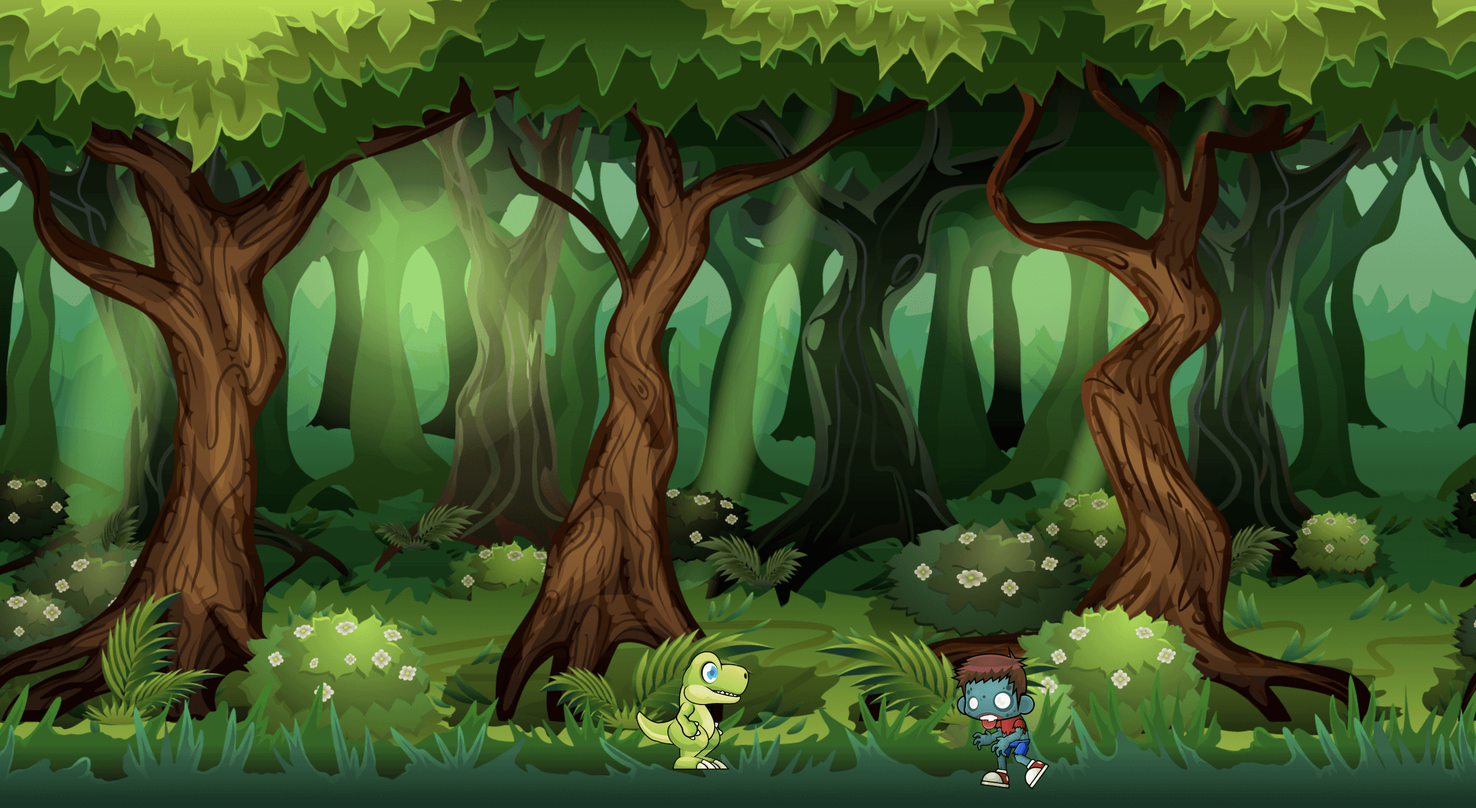
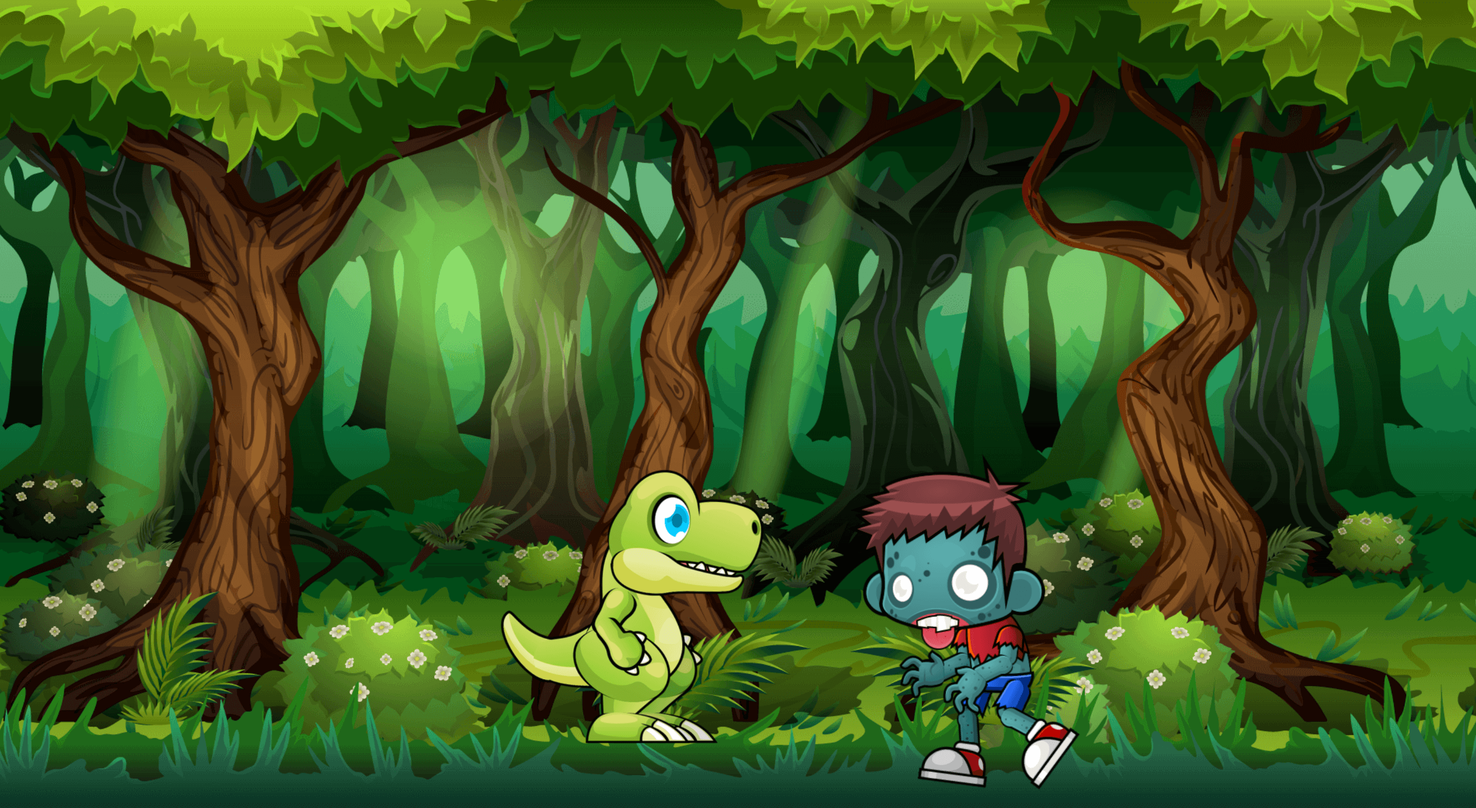
adjusting Dino's speed to the enviroment and code refactoring

diff --git a/sketch.js b/sketch.js
@@ -15,6 +15,7 @@ function preload() {
 		'../assets/dino/Walk7.png', '../assets/dino/Walk8.png',
 		'../assets/dino/Walk9.png', '../assets/dino/Walk10.png'
 	);
+	walkingDino.frameDelay = 5
 	runningDino = loadAnimation('../assets/dino/Run1.png', '../assets/dino/Run2.png',
 		'../assets/dino/Run3.png', '../assets/dino/Run4.png',
 		'../assets/dino/Run5.png', '../assets/dino/Run6.png',
@@ -36,7 +37,7 @@ function preload() {
 		'../assets/enemies/Walk5.png', '../assets/enemies/Walk6.png',
 		'../assets/enemies/Walk7.png', '../assets/enemies/Walk8.png',
 		'../assets/enemies/Walk9.png', '../assets/enemies/Walk10.png'
-	 );
+	);
 	attackEnemy = loadAnimation('../assets/enemies/Attack1.png', '../assets/enemies/Attack2.png',
 		'../assets/enemies/Attack3.png', '../assets/enemies/Attack4.png',
 		'../assets/enemies/Attack5.png', '../assets/enemies/Attack6.png',
@@ -48,7 +49,7 @@ function preload() {
 let bgImg;
 let x = 0;
 let newX;
-let scrollSpeed = 0.2;
+let scrollSpeed = 0.5;
 let welcomScreen = 0;
 
 // Get viewport
@@ -58,7 +59,7 @@ const height = window.innerHeight;
 // Movement properties
 let GROUND = height / 2 + 300
 let JUMP = -10;
-let GRAVITY = 0.3;
+let GRAVITY = 0.4;
 let JUMPLIMIT = 2;
 let JUMPQUEUE = 0;
 let HEALTH = 3;
@@ -73,8 +74,10 @@ function setup() {
 	// Create and position Dino
 	dino = createSprite(width / 2, GROUND);
 	dino.scale = .3;
-	dino.addAnimation('animate', idleDino);
+	dino.addAnimation('animate', walkingDino);
 	dino.setCollider("rectangle", 0, 5, 204, 390);
+	dino.addAnimation('dead', deadDino)
+	dino.addAnimation('jump', jumpingDino)
 
 	//Create Nyan
 	nyanCat = createSprite(width - 100, height / 2);
@@ -83,26 +86,30 @@ function setup() {
 	nyanCat.setSpeed(random(2, 50), 180)
 	nyanCat.mirrorX(-1);
 
+	spawningEnemies();
+}
+
+function spawningEnemies() {
 	for (let i = 0; i < ENEMYCOUNT; i++) {
 		let randomEnemySpeed = random(1, 7);
 		let enemy = createSprite(width + 500, GROUND);
 		enemy.position.x += random(0, 10000);
-		enemy.scale = .3;
+		enemy.scale = .3
 		enemy.addAnimation('animate', walkingEnemy);
 		enemy.setCollider("rectangle", 20, 5, 204, 390);
 		enemy.mirrorX(-1);
 		enemy.setSpeed(randomEnemySpeed, 180)
 		enemies.push(enemy)
-	}
-	dino.addAnimation('dead', deadDino)
-	dino.addAnimation('jump', jumpingDino)
+	};
 }
 
 function draw() {
 	if (welcomScreen == 0) {
 		startScreen()
 	} else if (welcomScreen == 1) {
-		gameOn()
+		gameOn();
+		drawSprites();
+		collisionDetect();
 	}
 }
 
@@ -111,10 +118,8 @@ function startScreen() {
 	textAlign(CENTER);
 	textSize(60);
 	fill(255);
-	text('WELCOME TO DINO GAME', width / 2, height / 3)
-	textSize(40);
-	fill(255);
-	text('CLICK TO START', width / 2, height / 2 + 20);
+	text('WELCOME TO DINO GAME', width / 2, height / 4)
+	text('CLICK TO START', width / 2, height / 2.5);
 }
 
 function gameOn() {
@@ -143,8 +148,6 @@ function gameOn() {
 	if (dino.position.x > width) {
 		dino.position.x += -5;
 	}
-	collisionDetect();
-	drawSprites();
 }
 
 // Detect collision
@@ -178,68 +181,58 @@ function collisionDetect() {
 			}
 		});
 	});
-}
+};
 
 // Resize window
 function windowResized() {
-  resizeCanvas(windowWidth, windowHeight);
+	resizeCanvas(windowWidth, windowHeight);
 }
 
 function mousePressed() {
 	setTimeout(function () {
-	if (welcomScreen == 0) {
-		welcomScreen = 1
-	}
-	else if (welcomScreen == 2) {
-		welcomScreen = 0
-	}
-	},500);
+		if (welcomScreen == 0) {
+			welcomScreen = 1
+		} else if (welcomScreen == 2) {
+			welcomScreen = 0
+		}
+	}, 500);
 }
 
 // // Movement
 function keyPressed() {
 	if (keyIsDown(LEFT_ARROW) || key === 'a') {
-		dino.addAnimation('animate', walkingDino);
-		dino.mirrorX(-1);
-		dino.setSpeed(1, 180);
-	}
-	if(keyIsDown(RIGHT_ARROW) || key === 'd')  {
-		dino.addAnimation('animate', walkingDino);
-		dino.mirrorX(1);
-		dino.setSpeed(1, 0);
-	}
-	if(keyIsDown(UP_ARROW) || key === 'w') {
-		if (JUMPQUEUE < JUMPLIMIT) {
-			dino.addAnimation('animate', jumpingDino)
-			dino.velocity.y = JUMP;
-			JUMPQUEUE++;
-		}
-	}
-	if(keyIsDown(SHIFT) && key === 'W') {
-		if (JUMPQUEUE < JUMPLIMIT) {
-			dino.addAnimation('animate', jumpingDino)
-			dino.velocity.y = JUMP;
-			JUMPQUEUE++;
-		}
-	}
-	if(keyIsDown(SHIFT) && keyIsDown(LEFT_ARROW)
-	|| keyIsDown(SHIFT) && key === 'A') {
 		dino.addAnimation('animate', runningDino);
+		dino.mirrorX(-1);
 		dino.setSpeed(4, 180);
-		dino.mirrorX(-1);
+		scrollSpeed = 0;
 	}
-	if(keyIsDown(SHIFT) && keyIsDown(RIGHT_ARROW)
-	|| keyIsDown(SHIFT) && key === 'D') {
+	if (keyIsDown(RIGHT_ARROW) || key === 'd') {
 		dino.addAnimation('animate', runningDino);
-		dino.setSpeed(4, 0);
 		dino.mirrorX(1);
+		dino.setSpeed(4, 0);
+		scrollSpeed = 1.3;
+	}
+	if (keyIsDown(UP_ARROW) || key === 'w') {
+		if (JUMPQUEUE < JUMPLIMIT) {
+			dino.addAnimation('animate', jumpingDino)
+			dino.velocity.y = JUMP;
+			JUMPQUEUE++;
+		}
+	}
+	if (keyIsDown(SHIFT) && key === 'W') {
+		if (JUMPQUEUE < JUMPLIMIT) {
+			dino.addAnimation('animate', jumpingDino)
+			dino.velocity.y = JUMP;
+			JUMPQUEUE++;
+		}
 	}
 }
 
 function keyReleased() {
-	if(keyCode === UP_ARROW || key === 'W' || key === 'w') {
-		return false
+	if (keyCode === UP_ARROW || key === 'W' || key === 'w') {
+		return false;
 	}
-	dino.addAnimation('animate', idleDino);
+	dino.addAnimation('animate', walkingDino);
 	dino.setSpeed(0, 0);
+	scrollSpeed = 0.5;
 }
